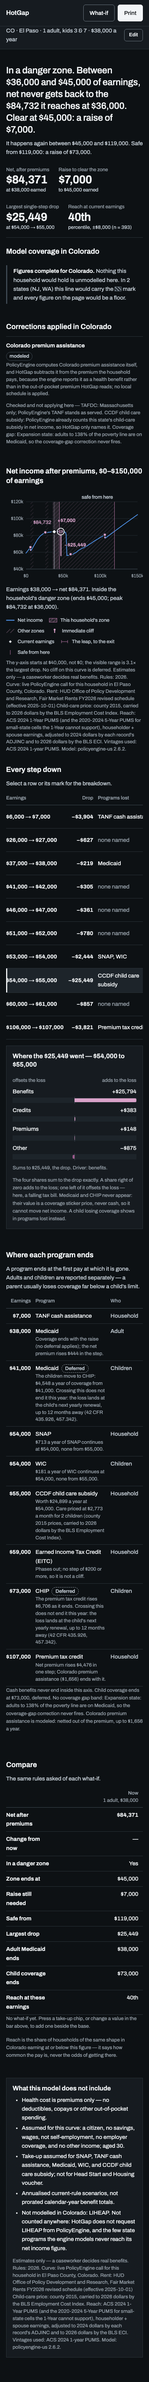
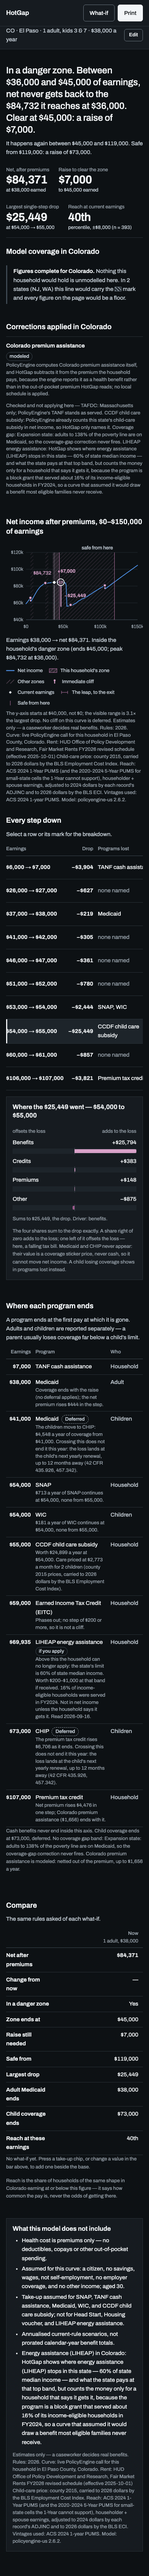
proofs: the e2e pins for the LIHEAP boundary, and smi.json bundled into the Worker (Plan 7)
The Worker has no disk, so the state-median-income table joins the four
small tables it provides once per isolate — a Massachusetts household's
limit is 60% of SMI, and without it /api/evaluate was a 500 (Texas passed
because its limit is a poverty-guideline share).

Through `wrangler dev` on 8796 against the droplet (policyengine-us 2.6.2):
citizen 9/9 — Texas's line under the key reads "Above $40,000 a year, you
can no longer apply for help with heating bills in Texas. It is called
LIHEAP. It is worth $1,200 a winter if you get it. Fewer than 1 in 10
families who could get it here do. If you get it, turn it on to see it in
your line."; Massachusetts "$83,500 a year … $355 to $430 … About 2 in 10";
with the toggle on the API's curve carries $1,800/$1,500/$1,200/$0 at
$13k/$19k/$39k/$40k and the line says it was counted. Caseworker 10/10 —
the ledger's tenth row at $39,975 tagged "if you apply" with its cite;
editor 6/6. The three Texas renders are kept beside the audit screenshots.

Claude-Session: https://claude.ai/code/session_01Q7xBzQqLTkE1HJLYJbG5S3

Changed region(s): [[0.0308, 0.0, 0.9538, 0.996], [0.8923, 0.6225, 0.9231, 0.6536]]

diff --git a/app/e2e/citizen.spec.ts b/app/e2e/citizen.spec.ts
@@ -286,3 +286,48 @@ test(`the archetype path says so in the source line, with Try again (source ${EX
   await page.screenshot({ path: resolve(OUT, "citizen-390-light-archetype.png"), fullPage: true });
   expect(errors).toEqual([]);
 });
+
+/* EligibilityBoundary (#23, Plan 7): Texas and Massachusetts, the two renders the plan pins; then the toggle. */
+for (const [state, zip, expected] of [
+  ["Texas", "78701", "Above $40,000 a year, you can no longer apply for help with heating bills in Texas. It is called LIHEAP. It is worth $1,200 a winter if you get it. Fewer than 1 in 10 families who could get it here do. If you get it, turn it on to see it in your line."],
+  ["Massachusetts", "02108", "Above $83,500 a year, you can no longer apply for help with heating bills in Massachusetts. It is called LIHEAP. It is worth $355 to $430 a winter if you get it. About 2 in 10 families who could get it here do. If you get it, turn it on to see it in your line."],
+] as const) {
+  test(`${state}: where help with heating bills stops is one line under the key and a tick on the axis, never a drop (source ${EXPECT_SOURCE})`, async ({ page }) => {
+    // A household the droplet has not seen before can take over a minute (Massachusetts runs the TAFDC feedback loop).
+    test.setTimeout(300_000);
+    const errors = consoleErrors(page);
+    await page.setViewportSize({ width: 1280, height: 900 });
+    const evaluated = page.waitForResponse((r) => r.url().endsWith("/api/evaluate"));
+    await page.goto(`/?zip=${zip}&kids=3%2C7&pay=30000&unit=year`);
+    const ev = (await (await evaluated).json()) as { liheap: { earningsLimit: number; counted: boolean } | null; analysis: { cliffs: { programsLost: string[] }[] } };
+    await page.locator("#chart svg path").first().waitFor();
+    await expect(page.locator("#boundary")).toHaveText(expected);
+    await expect(page.locator("#boundary")).toHaveAttribute("data-counted", "false");
+    expect(ev.liheap?.counted).toBe(false);
+    // Not a cliff, not a mark: nothing on the picture at the limit but the axis tick.
+    expect(ev.analysis.cliffs.every((c) => !c.programsLost.includes("liheap"))).toBe(true);
+    // The tick is drawn only when the limit lies inside the crop (model.ts boundaryInWindow), and the key entry shows with it — never one without the other.
+    const ticks = await page.locator("#chart svg line[data-boundary]").count();
+    expect(ticks).toBeLessThanOrEqual(1);
+    await expect(page.locator("figure .hg-key li:not([hidden])", { hasText: "Where help with heating bills stops" })).toHaveCount(ticks);
+    expect(errors).toEqual([]);
+  });
+}
+
+test(`Texas: the toggle puts $1,200 into the line to the limit and the boundary line says it was counted (source ${EXPECT_SOURCE})`, async ({ page }) => {
+  test.skip(EXPECT_SOURCE !== "live", "the live proof");
+  test.setTimeout(300_000);
+  const errors = consoleErrors(page);
+  await page.setViewportSize({ width: 1280, height: 900 });
+  const evaluated = page.waitForResponse((r) => r.url().endsWith("/api/evaluate"));
+  await page.goto("/?zip=78701&kids=3%2C7&pay=30000&unit=year&energy-assistance=1");
+  const ev = (await (await evaluated).json()) as { liheap: { counted: boolean } | null; curve: { points: { earnings: number; programs: Record<string, number> }[] } };
+  const at = (e: number) => ev.curve.points.find((p) => p.earnings === e)!.programs.liheap;
+  expect([at(13000), at(19000), at(39000), at(40000)]).toEqual([1800, 1500, 1200, 0]);
+  expect(ev.liheap?.counted).toBe(true);
+  await page.locator("#chart svg path").first().waitFor();
+  await expect(page.locator("#boundary")).toHaveText("You said you get help with heating bills (LIHEAP). We put it in your line: about $1,200 a year, up to $40,000 a year.");
+  await expect(page.locator("#chart svg line[data-boundary]")).toHaveCount(0);
+  await expect(page.locator(".assumed")).toContainText("help with heating bills (LIHEAP energy assistance). We count each as if you get it.");
+  expect(errors).toEqual([]);
+});

diff --git a/app/e2e/caseworker.spec.ts b/app/e2e/caseworker.spec.ts
@@ -74,7 +74,10 @@ for (const width of [390, 1280]) for (const scheme of ["light", "dark"] as const
     await expect(page.locator("#correctionsRest")).toContainText("Checked and not applying here — TAFDC:");
     // ThresholdLedger under the one convention: the subsidy ends at $55,000, SNAP's remainder cited.
     const ledger = page.locator("#ledgerRows tr");
-    await expect(ledger).toHaveCount(9);
+    // Nine program ends and, since Plan 7, the LIHEAP boundary row at Colorado's $69,935 limit (EligibilityBoundary #23).
+    await expect(ledger).toHaveCount(10);
+    await expect(ledger.nth(7)).toContainText("$69,935");
+    await expect(ledger.nth(7).locator(".hg-tag")).toHaveText("if you apply");
     await expect(ledger.nth(5)).toContainText("$55,000");
     await expect(ledger.nth(5)).toContainText("CCDF child care subsidy");
     await expect(ledger.nth(5)).toContainText("Care priced at $2,773 a month for 2 children (county 2015 prices");
@@ -421,4 +424,20 @@ test("archetype path: a what-if the sweep cannot answer says so instead of +$0 (
   measured["B1-archetype-1280"] = { head: await page.locator("#compareHead").innerText(), change: await change.innerText() };
   await page.evaluate(() => document.getElementById("compare")!.scrollIntoView());
   await page.screenshot({ path: after("B1-archetype-1280-compare") });
+});
+
+test("Texas: the ledger carries the LIHEAP boundary as a row tagged 'if you apply', with the cite; the assumptions carry core's sentence (Plan 7)", async ({ page }) => {
+  await light(page);
+  await page.setViewportSize({ width: 1280, height: 900 });
+  await page.goto("/caseworker.html?zip=78701&kids=3%2C7&pay=30000&unit=year&rent=1500");
+  await expect(page.locator("#sourceNote")).toHaveAttribute("data-source", "live");
+  const row = page.locator("#ledgerRows tr[data-boundary]");
+  await expect(row).toHaveCount(1);
+  await expect(row).toContainText("$39,975");
+  await expect(row).toContainText("LIHEAP energy assistance");
+  await expect(row.locator(".hg-tag")).toHaveText("if you apply");
+  await expect(row.locator(".hg-cite")).toHaveText("Above this the household can no longer apply: the state's limit is 150% of the poverty guideline. Worth $1,200 at that band if received. 3% of income-eligible households were served in FY2024. Not in net income unless the household says it gets it. Read 2026-09-16.");
+  await expect(page.locator("#assumed")).toContainText("Energy assistance (LIHEAP) in Texas: HotGap shows where energy assistance (LIHEAP) stops in this state");
+  await expect(page.locator("#correctionsRest")).toContainText("LIHEAP energy assistance: HotGap shows where energy assistance");
+  measured["P7-TX-ledger-boundary"] = await row.textContent();
 });

diff --git a/worker/src/index.ts b/worker/src/index.ts
@@ -25,15 +25,17 @@ import {
   type StateFileJson,
 } from "@hotgap/core";
 import reach from "@hotgap/core/data/reach.json";
+import smi from "@hotgap/core/data/smi.json";
 import stateDefaults from "@hotgap/core/data/state-defaults.json";
 import zip3State from "@hotgap/core/data/zip3-state.json";
 import zip5County from "@hotgap/core/data/zip5-county.json";
 
-// The four small tables core reads synchronously, bundled (about 930 KB raw
-// against a 64 MiB limit) and provided once per isolate. The 51 state files
-// (29 MB) are not bundled: the fallback fetches the one it needs from the
-// static assets (loadStateFile below), and only when PolicyEngine has failed.
-provideData({ "reach.json": reach, "state-defaults.json": stateDefaults, "zip3-state.json": zip3State, "zip5-county.json": zip5County });
+// The five small tables core reads synchronously, bundled (about 940 KB raw
+// against a 64 MiB limit) and provided once per isolate; smi.json (6 KB) is
+// the LIHEAP boundary's state-median-income table (liheap.ts). The 51 state
+// files (29 MB) are not bundled: the fallback fetches the one it needs from
+// the static assets (loadStateFile below), and only when PolicyEngine has failed.
+provideData({ "reach.json": reach, "smi.json": smi, "state-defaults.json": stateDefaults, "zip3-state.json": zip3State, "zip5-county.json": zip5County });
 
 /** A live curve is a function of the answers and the model, not of the sweep, so a week is safe. */
 const CACHE_TTL_S = 7 * 24 * 3600;
